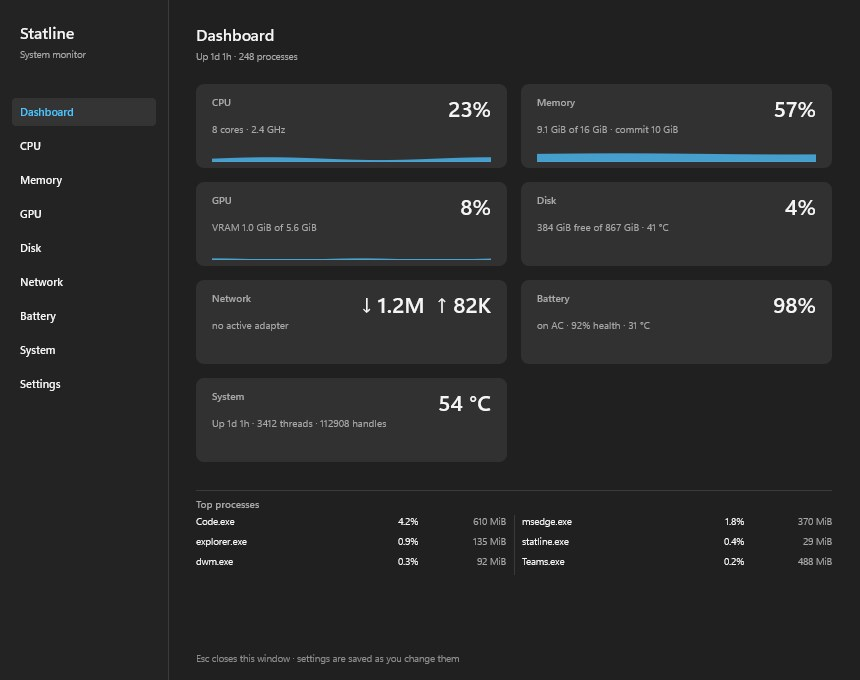
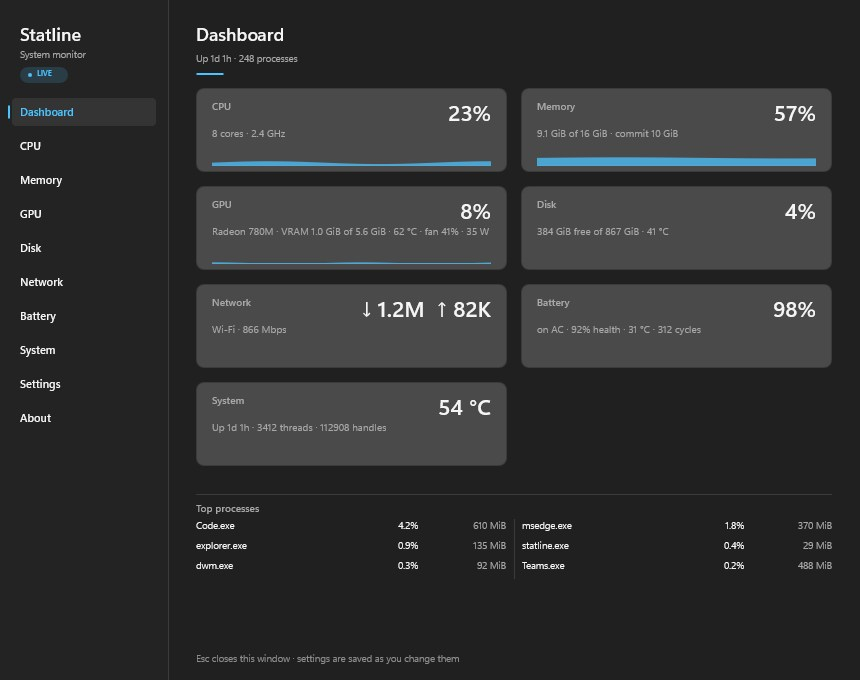
feat(ui): filter network miniports, stabilise rates and refresh the shell
- Drop NDIS filter miniports from the interface list. Native WiFi Filter
  Driver, NPCAP, QoS Packet Scheduler and WFP all mirrored the Wi-Fi counters,
  flooding the Network page and multiplying the aggregate rate.
- `format_rate_short` now keeps three significant digits and promotes before
  1000, so values never grow a fourth digit. The strip reserves `99.9 MiB/s`
  and `100%` samples; widths stayed at 240 px across eight live samples.
- Visual refresh: nav LIVE chip, accent rule under page titles, outlined cards,
  active-item accent marker, larger page titles.
- Live Network page now shows only Wi-Fi, SSID and Session.
- 168 tests, clippy clean.

diff --git a/crates/statline-ui/src/dashboard.rs b/crates/statline-ui/src/dashboard.rs
@@ -147,7 +147,7 @@ fn detail_style(scale: f32) -> TextStyle {
 }
 
 fn title_style(scale: f32) -> TextStyle {
-    TextStyle::new(16.0 * scale, true, Align::Left)
+    TextStyle::new(18.0 * scale, true, Align::Left)
 }
 
 fn footer_style(scale: f32) -> TextStyle {
@@ -197,6 +197,36 @@ fn draw_nav(
         palette.text_muted,
     );
 
+    // A small live chip keeps the shell feeling alive without animating.
+    surface.fill_round_rect(
+        pad,
+        67.0 * scale,
+        48.0 * scale,
+        16.0 * scale,
+        8.0 * scale,
+        palette.accent.scaled_alpha(0.16),
+    );
+    surface.fill_round_rect(
+        pad + 8.0 * scale,
+        73.0 * scale,
+        4.0 * scale,
+        4.0 * scale,
+        2.0 * scale,
+        palette.accent,
+    );
+    let _ = text.draw(
+        surface,
+        "LIVE",
+        (
+            pad + 17.0 * scale,
+            68.0 * scale,
+            nav_width - pad * 2.0,
+            12.0 * scale,
+        ),
+        TextStyle::new(7.5 * scale, true, Align::Left),
+        palette.accent,
+    );
+
     let selected = page.index();
     for (index, label) in NAV_ITEMS.iter().enumerate() {
         let y = NAV_TOP * scale + index as f32 * NAV_ITEM * scale;
@@ -209,6 +239,14 @@ fn draw_nav(
                 28.0 * scale,
                 radius::HOVER * scale,
                 palette.hover,
+            );
+            surface.fill_round_rect(
+                8.0 * scale,
+                y + 9.0 * scale,
+                2.0 * scale,
+                14.0 * scale,
+                1.0 * scale,
+                palette.accent,
             );
         }
         let _ = text.draw(
@@ -242,18 +280,27 @@ fn draw_header(
     let _ = text.draw(
         surface,
         title,
-        (x, 24.0 * scale, width, 24.0 * scale),
+        (x, 22.0 * scale, width, 28.0 * scale),
         title_style(scale),
         palette.text_primary,
     );
     let _ = text.draw(
         surface,
         subtitle,
-        (x, 50.0 * scale, width, 14.0 * scale),
+        (x, 52.0 * scale, width, 14.0 * scale),
         footer_style(scale),
         palette.text_muted,
     );
-    84.0 * scale
+    // A short accent rule gives the page a clear masthead without a box.
+    surface.fill_round_rect(
+        x,
+        73.0 * scale,
+        28.0 * scale,
+        2.0 * scale,
+        1.0 * scale,
+        palette.accent,
+    );
+    88.0 * scale
 }
 
 fn card(
@@ -265,7 +312,15 @@ fn card(
     (x, y, w, h): (f32, f32, f32, f32),
 ) {
     let pad = space::XL * scale;
-    surface.fill_round_rect(x, y, w, h, radius::CARD * scale, palette.hover);
+    surface.fill_round_rect(x, y, w, h, radius::CARD * scale, palette.surface_border);
+    surface.fill_round_rect(
+        x + scale,
+        y + scale,
+        w - 2.0 * scale,
+        h - 2.0 * scale,
+        (radius::CARD * scale - scale).max(1.0),
+        palette.hover,
+    );
 
     let _ = text.draw(
         surface,

diff --git a/crates/statline-ui/src/strip.rs b/crates/statline-ui/src/strip.rs
@@ -8,8 +8,8 @@ use statline_core::units::{UnitSystem, format_percent, format_rate_short};
 /// Text used to reserve a stable width, so a changing number cannot make the
 /// strip jump around. Network is the worst offender: "1.1 KiB/s" and
 /// "12.4 MiB/s" must occupy the same slot.
-const RATE_SAMPLE_BINARY: &str = "\u{2193} 88.8 MiB/s";
-const RATE_SAMPLE_DECIMAL: &str = "\u{2193} 88.8 MB/s";
+const RATE_SAMPLE_BINARY: &str = "\u{2193} 99.9 MiB/s";
+const RATE_SAMPLE_DECIMAL: &str = "\u{2193} 99.9 MB/s";
 
 /// One readout in the strip.
 #[derive(Debug, Clone, PartialEq)]
@@ -32,10 +32,9 @@ pub struct Segment {
 
 impl Segment {
     fn new(label: &'static str, value: String, percent: Option<f32>) -> Self {
-        let (warn, critical) = match label {
-            "CPU" | "MEM" => (85.0, 95.0),
-            "GPU" | "DISK" => (90.0, 98.0),
-            _ => (0.0, 0.0),
+        let (warn, critical, width_sample) = match label {
+            "CPU" | "MEM" | "GPU" | "DISK" => (85.0, 95.0, "100%"),
+            _ => (0.0, 0.0, ""),
         };
         Self {
             label,
@@ -44,7 +43,7 @@ impl Segment {
             percent,
             warn,
             critical,
-            width_sample: "",
+            width_sample,
         }
     }
 }
@@ -200,8 +199,8 @@ mod tests {
         let segments = segments(&snapshot);
         assert_eq!(segments.len(), 1);
         assert_eq!(segments[0].label, "");
-        assert_eq!(segments[0].value, "\u{2193} 1.2 MiB/s");
-        assert_eq!(segments[0].extra.as_deref(), Some("\u{2191} 82 KiB/s"));
+        assert_eq!(segments[0].value, "\u{2193} 1.18 MiB/s");
+        assert_eq!(segments[0].extra.as_deref(), Some("\u{2191} 82.0 KiB/s"));
         assert_eq!(segments[0].width_sample, RATE_SAMPLE_BINARY);
     }
 
@@ -247,8 +246,8 @@ mod tests {
             ..Default::default()
         };
         let segments = segments_with(&snapshot, UnitSystem::Decimal, VisibleModules::default());
-        assert_eq!(segments[0].value, "\u{2193} 1.2 MB/s");
-        assert_eq!(segments[0].extra.as_deref(), Some("\u{2191} 84 KB/s"));
+        assert_eq!(segments[0].value, "\u{2193} 1.24 MB/s");
+        assert_eq!(segments[0].extra.as_deref(), Some("\u{2191} 84.0 KB/s"));
         assert_eq!(segments[0].width_sample, RATE_SAMPLE_DECIMAL);
     }
 

diff --git a/crates/statline-win/src/metrics/net.rs b/crates/statline-win/src/metrics/net.rs
@@ -36,6 +36,16 @@ const IF_OPER_STATUS_UP: i32 = 1;
 const IF_TYPE_SOFTWARE_LOOPBACK: u32 = 24;
 const IF_TYPE_IEEE80211: u32 = 71;
 const TUNNEL_TYPE_NONE: i32 = 0;
+/// `MIB_IF_ROW2_0` bit 1: an NDIS filter miniport.
+///
+/// These (`Native WiFi Filter Driver`, NPCAP, QoS Packet Scheduler, WFP…) share
+/// the physical adapter's counters, so including them both floods the UI with
+/// duplicate rows and multiplies the aggregate rate.
+const FILTER_INTERFACE: u8 = 0x02;
+
+fn is_filter_miniport(flags: u8) -> bool {
+    flags & FILTER_INTERFACE != 0
+}
 
 /// Enumerate operational, non-loopback, non-tunnel interfaces with a real link.
 pub fn interfaces() -> Vec<InterfaceRef> {
@@ -56,6 +66,7 @@ pub fn interfaces() -> Vec<InterfaceRef> {
             if row.OperStatus.0 != IF_OPER_STATUS_UP
                 || row.Type == IF_TYPE_SOFTWARE_LOOPBACK
                 || row.TunnelType.0 != TUNNEL_TYPE_NONE
+                || is_filter_miniport(row.InterfaceAndOperStatusFlags._bitfield)
             {
                 continue;
             }
@@ -194,6 +205,13 @@ mod tests {
             buffer[index] = unit;
         }
         assert_eq!(wide_to_string(&buffer), "Wi-Fi");
+    }
+
+    #[test]
+    fn filter_miniports_are_identified_by_the_ndis_flag() {
+        assert!(is_filter_miniport(0b0000_0010));
+        assert!(!is_filter_miniport(0b0000_0001));
+        assert!(!is_filter_miniport(0));
     }
 
     #[test]

diff --git a/crates/statline-core/src/units.rs b/crates/statline-core/src/units.rs
@@ -131,10 +131,12 @@ pub fn format_rate_compact(bytes_per_sec: f64, units: UnitSystem) -> String {
     }
 }
 
-/// Short rate for the strip: "1.1 KB/s", "82 KB/s", "12.4 MB/s".
+/// Short rate for the strip: three significant digits, adaptive unit.
 ///
-/// One decimal below 10 keeps small values readable without widening the
-/// segment much; above that the integer is plenty.
+/// Examples: `1.24 KiB/s`, `82.0 KiB/s`, `999 KiB/s`. Three digits keep the
+/// slot width stable while a value changes; the unit changes only when the
+/// magnitude does. A value that would round to 1000 is promoted to the next
+/// unit, so the number never grows a fourth digit.
 pub fn format_rate_short(bytes_per_sec: f64, units: UnitSystem) -> String {
     if !bytes_per_sec.is_finite() || bytes_per_sec <= 0.0 {
         return String::from("0 B/s");
@@ -148,8 +150,18 @@ pub fn format_rate_short(bytes_per_sec: f64, units: UnitSystem) -> String {
         scaled /= base;
         index += 1;
     }
+    if scaled >= 999.5 && index + 1 < suffixes.len() {
+        scaled /= base;
+        index += 1;
+    }
 
-    let decimals = if index > 0 && scaled < 10.0 { 1 } else { 0 };
+    let decimals = if index == 0 || scaled >= 99.95 {
+        0
+    } else if scaled >= 9.995 {
+        1
+    } else {
+        2
+    };
     format!("{scaled:.decimals$} {}/s", suffixes[index])
 }
 #[cfg(test)]

diff --git a/docs/STATUS.md b/docs/STATUS.md
@@ -23,10 +23,11 @@ detail sampling on
   suppressed, hides for fullscreen and a hidden taskbar, recreates after an Explorer
   restart via the app message window. Topmost popup remains as an automatic fallback.
   Network leads so its varying rate text changes the strip's left edge instead of
-  shifting the other segments. Placement reads `TaskbarAl`: **Right** anchors to the
-  tray; **Left** uses the far-left free area on a centred taskbar, or the space after
-  the app-button group when the taskbar is left-aligned (so it never overlays Start or
-  the app buttons).
+  shifting the other segments. Rates use three significant digits with a reserved
+  segment width, so neither digits nor units move the strip. Placement reads
+  `TaskbarAl`: **Right** anchors to the tray; **Left** uses the far-left free area on a
+  centred taskbar, or the space after the app-button group when the taskbar is
+  left-aligned (so it never overlays Start or the app buttons).
 - **Flyout**: opens on strip click, toggles closed on a second click, closes on Esc or
   focus loss. A segment click shows only that module — CPU with per-core bars and the
   CPU process table, Memory with commit/cache and top memory apps, Disk with volumes,
@@ -39,7 +40,8 @@ detail sampling on
   per-core grid (percentage and clock) plus 1/5/15-minute averages and processes;
   memory cache and top memory apps; per-volume and per-adapter rows. Its position and
   size are remembered in `window.json` and restored only when still on a monitor.
-  Optional Mica DWM backdrop on the framed windows.
+  Optional Mica DWM backdrop on the framed windows. The shell has a LIVE chip, an accent
+  rule under page titles, outlined cards and an accent marker on the active nav item.
 - **Settings**: a framed window from the tray menu, the strip menu, or the companion nav,
   with theme, accent presets, sampler interval, byte units, Mica, strip placement,
   start-with-Windows and per-module strip visibility. Mica shows a GPU/battery caution.
@@ -65,7 +67,8 @@ detail sampling on
   `SystemPageFileInformation`, all converted from pages to bytes.
 - **Disk detail**: aggregate read/write and per-volume used/total, temperature, plus
   per-physical-disk rates and busy percentage from named PDH instances (`Disk 0 C:`).
-- **Network detail**: per-adapter rates, session totals, the negotiated link speed
+- **Network detail**: only real interfaces (NDIS filter miniports are excluded), with
+  per-adapter rates, session totals, the negotiated link speed
   (`MIB_IF_ROW2.TransmitLinkSpeed`, e.g. "Wi-Fi · 866 Mbps") and, on WLAN, the SSID and
   signal quality from `wlanapi` (queried only while a detail surface is open).
 - **System detail**: Windows edition/build (corrected to "Windows 11" from the build

diff --git a/docs/spec/metrics.md b/docs/spec/metrics.md
@@ -52,10 +52,14 @@ Swap row hides.
 
 **Network**
 `GetIfTable2` each 15 s; sum `InOctets`/`OutOctets` deltas for interfaces that are
-`IF_OPER_STATUS_OPERATIONAL` and not loopback/tunnel. Per-adapter rows for the flyout,
-including `TransmitLinkSpeed` and the 802.11 flag. SSID and signal quality come from
-`wlanapi` (`WlanQueryInterface` / `wlan_intf_opcode_current_connection`), cached with the
-interface list and only queried while a detail surface is visible (~12 ms per refresh).
+`IF_OPER_STATUS_OPERATIONAL` and not loopback/tunnel. Exclude NDIS filter miniports
+(`InterfaceAndOperStatusFlags._bitfield & 0x02`): they mirror the physical adapter's
+counters and would duplicate rows and inflate the total. Per-adapter rows for the
+flyout, including `TransmitLinkSpeed` and the 802.11 flag. SSID and signal quality come
+from `wlanapi` (`WlanQueryInterface` / `wlan_intf_opcode_current_connection`), cached
+with the interface list and only queried while a detail surface is visible (~12 ms per
+refresh). Strip rates use three significant digits; the segment reserves a fixed width
+for the widest value (`99.9 MiB/s`).
 
 **Processes**
 `NtQuerySystemInformation(SystemProcessInformation)`; CPU share from cumulative CPU-time

diff --git a/docs/HANDOFF.md b/docs/HANDOFF.md
@@ -129,6 +129,15 @@ docs/                    INDEX.md, STATUS.md, adr/, spec/, ops/, status/
   `% Disk Time` via `PdhGetFormattedCounterArray` with instance names; `_Total` is the
   aggregate, the rest become per-disk rows. Volume capacity/temps are cached separately
   (30 s / 5 min).
+- **Network**: `GetIfTable2` excludes NDIS filter miniports via
+  `MIB_IF_ROW2_0._bitfield & 0x02` (`Native WiFi Filter Driver`, NPCAP, QoS, WFP…).
+  They share the physical adapter's counters, so including them duplicates rows and
+  multiplies the total. Rates use `format_rate_short` (three significant digits,
+  promote before 1000) and the strip reserves `99.9 MiB/s` plus `100%` samples so the
+  segment cannot resize as digits or units change.
+- **Companion look**: nav LIVE chip, accent rule under page titles, card outlines,
+  active-item accent marker. Keep new spacing inside `draw_header`'s 88 dip return so
+  pages do not drift.
 - **Window state**: the companion remembers its outer rectangle in
   `%APPDATA%\Statline\window.json`, saved on `WM_EXITSIZEMOVE`/close and restored only
   when it still intersects a monitor. A separate file avoids racing the settings

diff --git a/CHANGELOG.md b/CHANGELOG.md
@@ -8,12 +8,19 @@ All notable changes to Statline are recorded here. The format follows
 
 ### Fixed
 
+- Network ignores NDIS filter miniports (`Native WiFi Filter Driver`, NPCAP, QoS
+  Packet Scheduler, WFP…). They duplicated the physical adapter's counters, flooding
+  the page with rows and multiplying the aggregate rate.
+- Strip rates use three significant digits and reserved widths. Changing digits or
+  units (KB/s vs MB/s) no longer resizes the network segment or shifts the strip.
 - Strip placement now respects Windows 11 taskbar alignment. Right anchors to the tray;
   Left uses the far-left free area on a centred taskbar, or the space after the app
   buttons when the taskbar is left-aligned, instead of overlapping Start/apps.
 
 ### Added
 
+- Visual refresh: a LIVE chip in the nav, a short accent rule under page titles,
+  outlined cards and an accent marker on the active nav item.
 - Disk page shows per-physical-disk read/write and busy percentage from named PDH
   instances (`Disk 0 C:`), alongside the aggregate and per-volume rows.
 - Network page shows the connected Wi-Fi SSID and signal quality (WLAN API). The query

diff --git a/docs/spec/ui-dashboard.md b/docs/spec/ui-dashboard.md
@@ -2,6 +2,9 @@
 
 One framed window, 880 × 680 dip, resizable. The renderer fills the client area.
 
+The nav carries a LIVE chip, the page title sits above a short accent rule, cards are
+outlined, and the active nav item gets an accent marker.
+
 ```
 ┌────────────┬───────────────────────────────────────────────┐
 │  Statline  │  Dashboard                                    │
